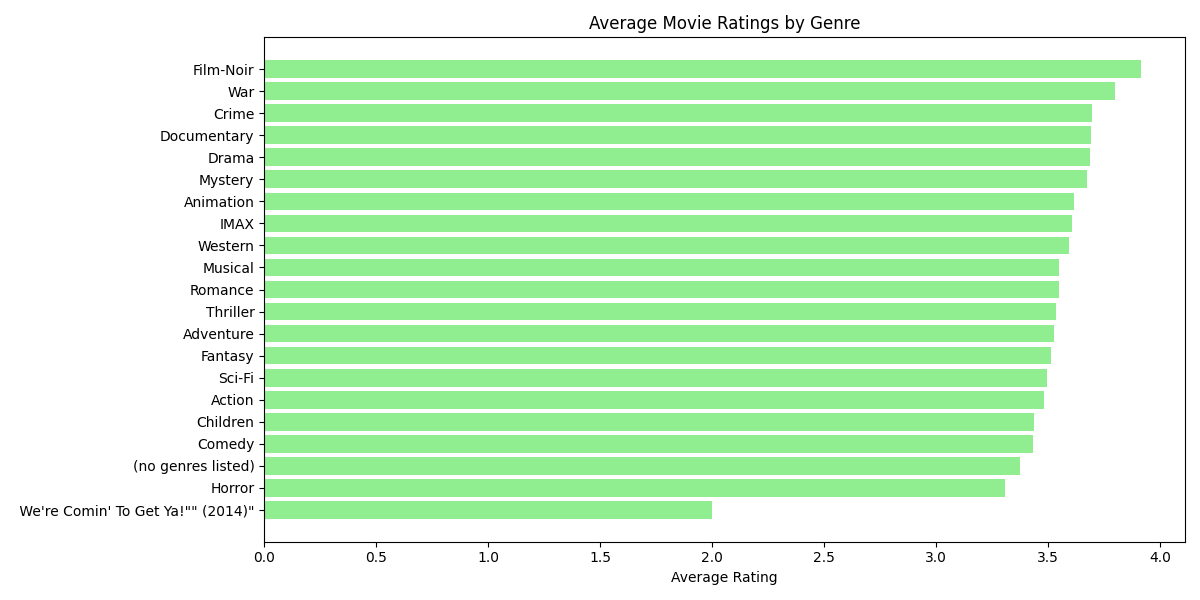
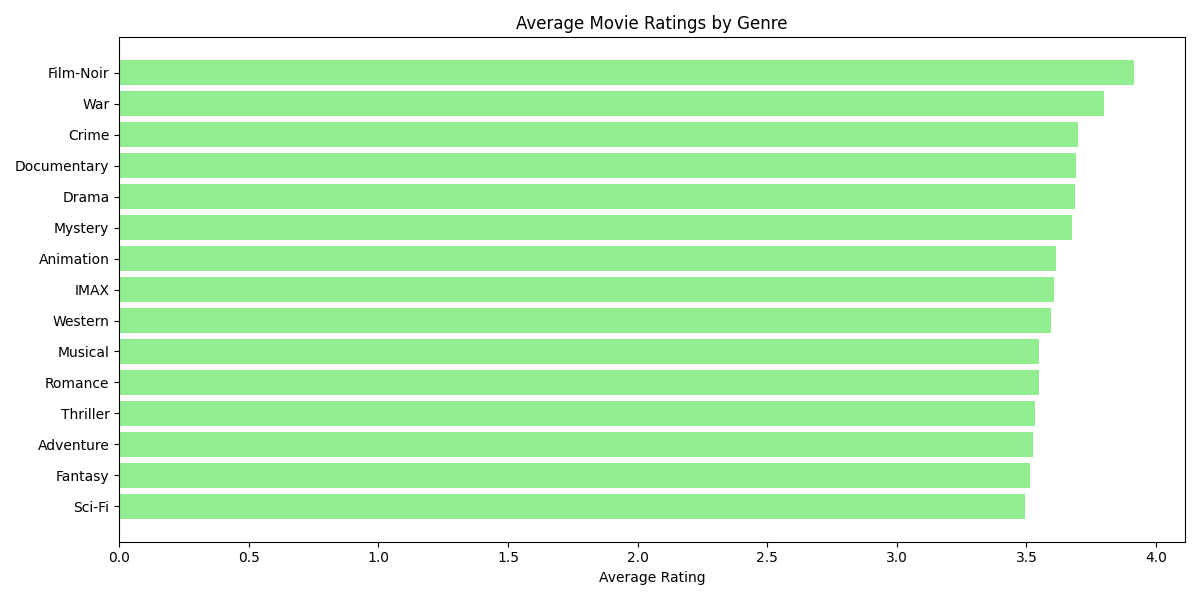
Refactored graph function slightly

diff --git a/app/main.py b/app/main.py
@@ -78,13 +78,13 @@ def get_highest_rated_genre():
     print(f"Highest rated genre: {highest_rated_genre['genre']} with average rating {highest_rated_genre['avg(rating)']}")  
 
 # This function graphs average rating for each genre
-def graph_average_rating_for_genres():
+def graph_average_rating_for_genres(amount):
     matplotlib.use("Agg")
 
     # Compute average rating per genre
     ratings_with_genres = ratings.join(movies, on='movieId', how='inner')
     genres_exploded = ratings_with_genres.withColumn('genre', F.explode(F.split(ratings_with_genres.genres, '\\|')))
-    avg_ratings_by_genre = genres_exploded.groupBy('genre').avg('rating').orderBy('avg(rating)', ascending=False)
+    avg_ratings_by_genre = genres_exploded.groupBy('genre').avg('rating').orderBy('avg(rating)', ascending=False).limit(amount)
     avg_ratings_collected = avg_ratings_by_genre.collect()
 
     # Prepare data for plotting
@@ -109,12 +109,12 @@ def graph_average_rating_for_genres():
     plt.savefig(out_path)
     print(f"Saved chart to {out_path}")
 
-unique_movies(10)
-average_movie_rating()
-highest_rated_movies(10)
-latest_rating()
-get_average_rating_for_movie_per_year(64)
-match_movies_with_genre(10, "Comedy")
-get_average_rating_for_genre()
-get_highest_rated_genre()
-graph_average_rating_for_genres()
+# unique_movies(10)
+# average_movie_rating()
+# highest_rated_movies(10)
+# latest_rating()
+# get_average_rating_for_movie_per_year(64)
+# match_movies_with_genre(10, "Comedy")
+# get_average_rating_for_genre()
+# get_highest_rated_genre()
+graph_average_rating_for_genres(15)
